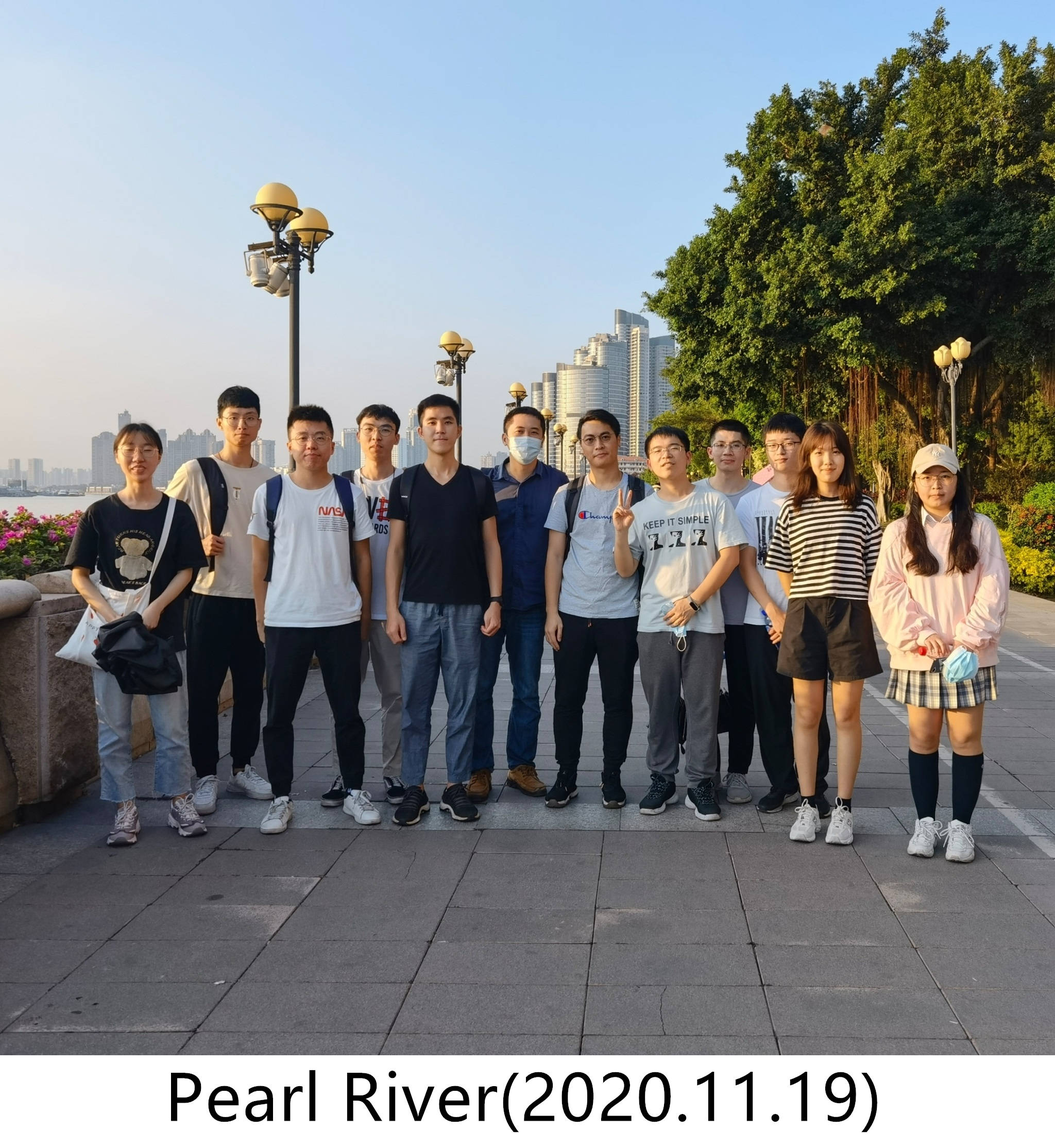
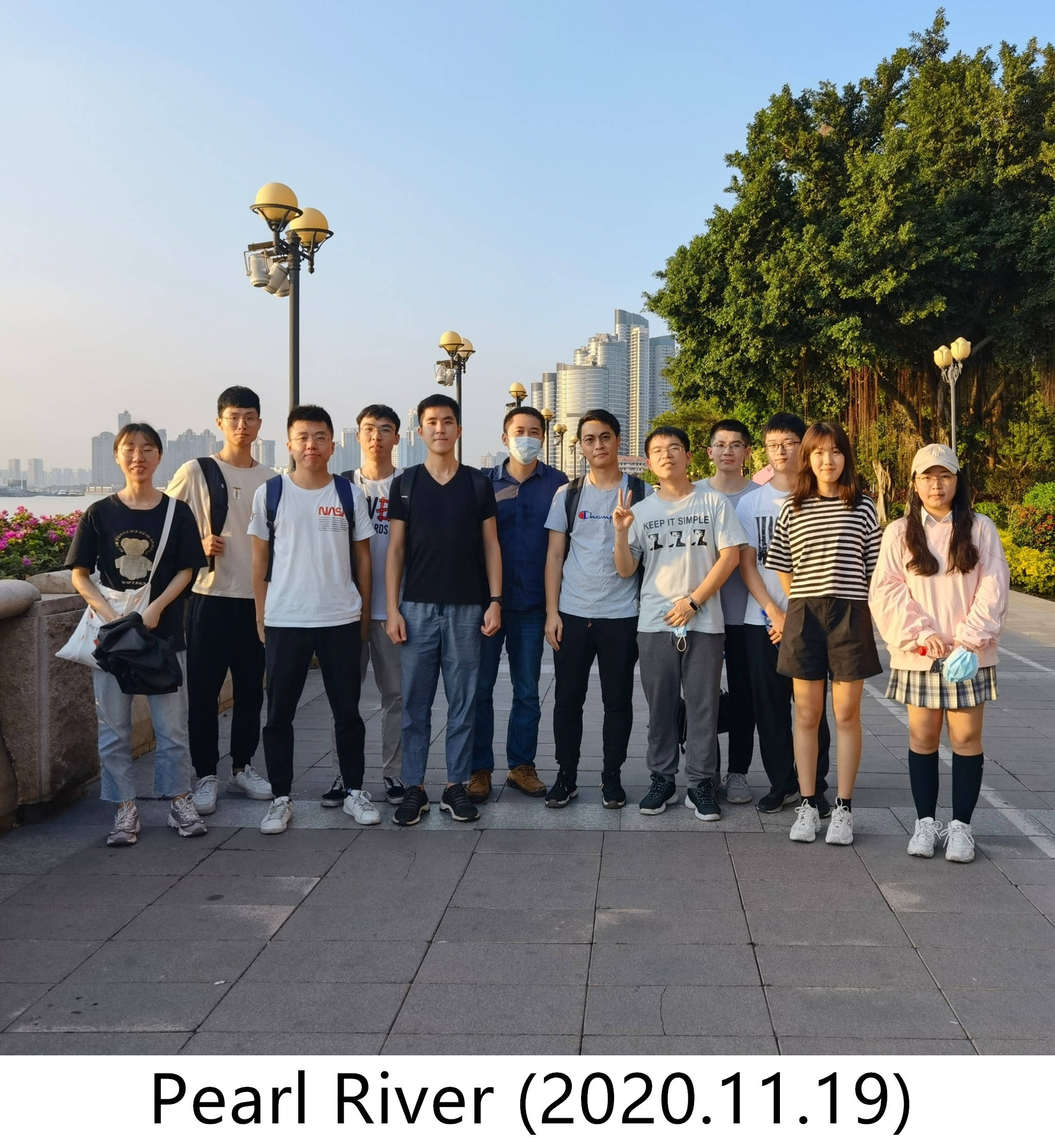
update

diff --git a/category/personal.md b/category/personal.md
@@ -6,7 +6,7 @@ title: Personal
 <style>
 p.ex1 {margin-bottom:0.2cm}
 </style>
-<p><t1> You may find something interesting about me in this page.</t1></p>
+<p><t1><big><em> You may find something interesting about me in this page.</em></big></t1></p>
 <br>
 <t-half><strong>Memory</strong></t-half>
 <p class="ex1"><t1>Could u recognize me from the photos?</t1></p>
@@ -21,7 +21,7 @@ p.ex1 {margin-bottom:0.2cm}
 <table border="0">
 <tbody>
 <tr>
-<img src="https://github.com/csyhquan/csyhquan.github.io/raw/master/images/Pearl_River(2020.11.19).jpg" alt="" height="260" class="pimg"/>
+<img src="https://github.com/csyhquan/csyhquan.github.io/raw/master/images/Pearl_River(2020.11.19).jpg" alt="" height="270" class="pimg"/>
 <img src="https://github.com/csyhquan/csyhquan.github.io/raw/master/images/personal_1.png" alt="" height="260" class="pimg"/>
 <img src="https://github.com/csyhquan/csyhquan.github.io/raw/master/images/personal_2.png" alt="" height="260" class="pimg"/>
 </tr>
